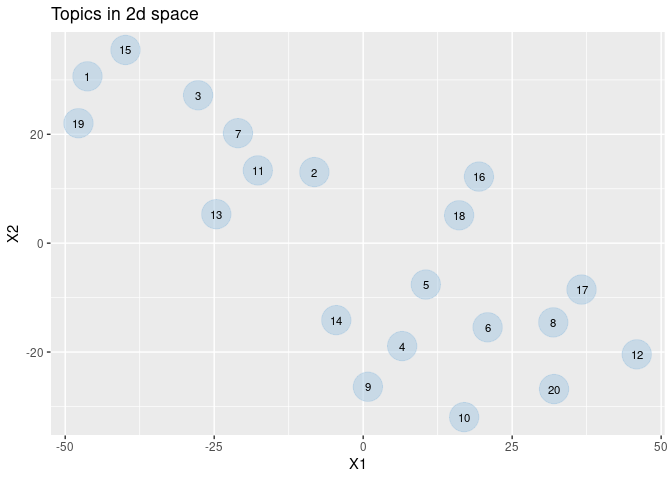
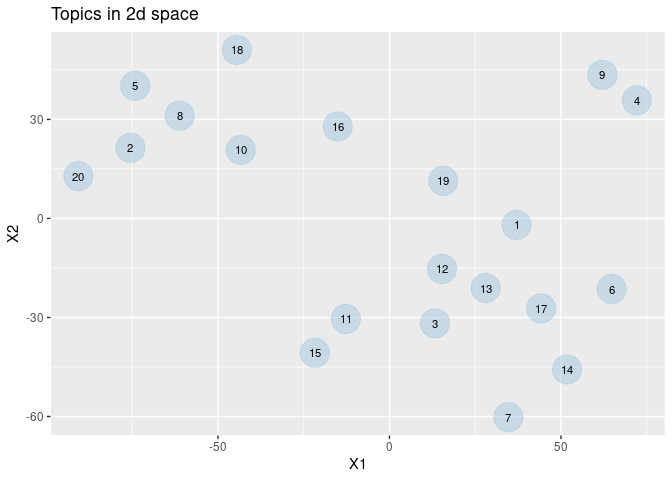
re

diff --git a/README.md b/README.md
@@ -59,6 +59,9 @@ head(s0)
 
 ### Retrieve and parse abstract data
 
+For quicker abstract retrieval, be sure to get an [API
+key](https://support.nlm.nih.gov/knowledgebase/article/KA-03521/en-us).
+
 ``` r
 sen_df <- PubmedMTK::pmtk_get_records2(pmids = s0$pmid, 
                                        cores = 6, 
@@ -70,7 +73,7 @@ sen_df <- PubmedMTK::pmtk_get_records2(pmids = s0$pmid,
 ``` r
 sen_df <- data.table::rbindlist(sen_df)
 
-n <- 9
+n <- 12
 list(pmid = sen_df$pmid[n],
      year = sen_df$year[n],
      articletitle = strwrap(sen_df$articletitle[n], width = 60),
@@ -79,29 +82,31 @@ list(pmid = sen_df$pmid[n],
 ```
 
     ## $pmid
-    ## [1] "33974499"
+    ## [1] "33933061"
     ## 
     ## $year
     ## [1] "2021"
     ## 
     ## $articletitle
-    ## [1] "The Risk of QTc Prolongation with Antiemetics in the"
-    ## [2] "Palliative Care Setting: A Narrative Review."        
+    ## [1] "Opioid use in medical cannabis authorization adult patients"
+    ## [2] "from 2013 to 2018: Alberta, Canada."                        
     ## 
     ## $meshHeadings
-    ## [1] "NA"
+    ## [1] "Adult|Alberta|Analgesics,"                                  
+    ## [2] "Opioid|Cannabis|Female|Humans|Male|Medical Marijuana|Middle"
+    ## [3] "Aged|Opioid-Related Disorders|United States"                
     ## 
     ## $text
-    ##  [1] "Nausea and vomiting are common within the palliative care"  
-    ##  [2] "population. Antiemetic agents may help control symptoms,"   
-    ##  [3] "but may also place patients at risk for QTc prolongation."  
-    ##  [4] "This article reviews pharmacotherapy agents including"      
-    ##  [5] "anticholinergics, antihistamines, antidopaminergics, 5-HT3" 
-    ##  [6] "receptor antagonists, dronabinol, and medical marijuana and"
-    ##  [7] "their associated risk of QTc prolongation. A clinical"      
-    ##  [8] "treatment pathway is provided to help guide clinicians in"  
-    ##  [9] "choosing the most appropriate antiemetic based upon patient"
-    ## [10] "specific factors for QTc prolongation."
+    ##  [1] "The opioid overdose epidemic in Canada and the United"      
+    ##  [2] "States has become a public health crisis - with exponential"
+    ##  [3] "increases in opioid-related morbidity and mortality."       
+    ##  [4] "Recently, there has been an increasing body of evidence"    
+    ##  [5] "focusing on the opioid-sparing effects of medical cannabis" 
+    ##  [6] "use (reduction of opioid use and reliance), and medical"    
+    ##  [7] "cannabis as a potential alternative treatment for chronic"  
+    ##  [8] "pain. The objective of this study is to assess the effect"  
+    ##  [9] "of medical cannabis authorization on opioid use (oral"      
+    ## [10] "morphine equivalent; OME) between 2013 and 2018 in Alberta,"
 
 ### KWIC search
 
@@ -116,16 +121,21 @@ egs <- PubmedMTK::pmtk_locate_search(text = toks,
                                      search = c('medical marijuana laws'),
                                      stem = F,
                                      window = 10)
-knitr::kable(egs[1:5, ])
+
+egs$t1 <- paste0('... ', egs$lhs, ' `', egs$instance, '` ', egs$rhs, ' ...')
+knitr::kable(egs[1:8, c(1,5)])
 ```
 
-| doc_id   | lhs                                                                               | instance               | rhs                                                         |
-|:---------|:----------------------------------------------------------------------------------|:-----------------------|:------------------------------------------------------------|
-| 34128629 | , and driving . physicians can recommend use of marijuana under                   | medical marijuana laws | but cannot prescribe it , as it is classified as a          |
-| 33750275 | moving to reverse marijuana prohibition , most frequently through legalization of | medical marijuana laws | ( mmls ) , and there is concern that marijuana legalization |
-| 33730400 | recreational marijuana laws ( rml ) , followed by states with                     | medical marijuana laws | ( mml ) and without legal cannabis use , respectively .     |
-| 33624387 | differences-in-differences ( dd ) approach and found that the implementation of   | medical marijuana laws | ( mmls ) and recreational marijuana laws ( rmls ) reduced   |
-| 33143941 | . cannabis legalization was determined by the presence or absence of              | medical marijuana laws | ( mml ) and recreational marijuana laws ( rml ) in          |
+| doc_id   | t1                                                                                                                                                                         |
+|:---------|:---------------------------------------------------------------------------------------------------------------------------------------------------------------------------|
+| 34128629 | … , and driving . physicians can recommend use of marijuana under `medical marijuana laws` but cannot prescribe it , as it is classified as a …                            |
+| 33750275 | … moving to reverse marijuana prohibition , most frequently through legalization of `medical marijuana laws` ( mmls ) , and there is concern that marijuana legalization … |
+| 33730400 | … recreational marijuana laws ( rml ) , followed by states with `medical marijuana laws` ( mml ) and without legal cannabis use , respectively . …                         |
+| 33624387 | … differences-in-differences ( dd ) approach and found that the implementation of `medical marijuana laws` ( mmls ) and recreational marijuana laws ( rmls ) reduced …     |
+| 33143941 | … . cannabis legalization was determined by the presence or absence of `medical marijuana laws` ( mml ) and recreational marijuana laws ( rml ) in …                       |
+| 33069561 | … , a limited but growing body of literature has found state `medical marijuana laws` ( mmls ) to be associated with lower levels of opioid …                              |
+| 32799573 | … management , much research has since focused on the potential for `medical marijuana laws` ( mmls ) to curb the opioid epidemic . nonetheless , …                        |
+| 32736294 | … cannabis use disorder are more prevalent in u.s . states with `medical marijuana laws` ( mmls ) , as well as among individuals with elevated …                           |
 
 ### Extract MeSH classifications
 
@@ -168,8 +178,8 @@ lda <- text2vec::LDA$new(n_topics = 20)
 fit <- lda$fit_transform(dtm, progressbar = F)
 ```
 
-    ## INFO  [14:42:13.558] early stopping at 80 iteration 
-    ## INFO  [14:42:13.847] early stopping at 20 iteration
+    ## INFO  [09:53:08.957] early stopping at 100 iteration 
+    ## INFO  [09:53:09.312] early stopping at 30 iteration
 
 ``` r
 tm_summary <- PubmedMTK::pmtk_summarize_lda(
@@ -178,18 +188,18 @@ tm_summary <- PubmedMTK::pmtk_summarize_lda(
 
 #### Feature composition of first ten topics
 
-| topic_id | topic_features                                                                                                                                                                                            |
-|---------:|:----------------------------------------------------------------------------------------------------------------------------------------------------------------------------------------------------------|
-|        1 | adult \| middle_aged \| young_adult \| aged \| male \| cross-sectional_studies \| adolescent \| age_factors \| pain_management \| health_surveys                                                          |
-|        2 | marijuana_use \| health_knowledge,\_attitudes,\_practice \| male \| surveys_and_questionnaires \| health_policy \| commerce \| middle_aged \| female \| united_states \| substance_use                    |
-|        3 | male \| adult \| female \| marijuana \| cannabis \| marijuana_smoking \| stress_disorders,\_post-traumatic \| motivation \| severity_of_illness_index \| cannabis_use                                     |
-|        4 | cannabis \| marijuana_use \| prevalence \| united_states \| thc \| cbd \| illicit_drugs \| medical_marijuana_laws \| medical_cannabis \| logistic_models                                                  |
-|        5 | cannabis \| canada \| drug_and_narcotic_control \| phytotherapy \| united_states \| physicians \| health_policy \| jurisprudence \| attitude_of_health_personnel \| health_care_and_public_health         |
-|        6 | nausea \| marijuana_smoking \| multiple_sclerosis \| cannabis \| drug_and_narcotic_control \| vomiting \| public_policy \| marijuana_abuse \| muscle_spasticity \| neuralgia                              |
-|        7 | female \| male \| substance-related_disorders \| marijuana_abuse \| cannabis \| cross-sectional_studies \| marijuana_smoking \| risk_factors \| colorado \| anxiety                                       |
-|        8 | cannabinoids \| medical_cannabis \| drug_and_narcotic_control \| united_states \| biomedical_research \| mental_disorders \| palliative_care \| health_services_accessibility \| united_kingdom \| israel |
-|        9 | cannabis \| neoplasms \| palliative_care \| cancer_pain \| cancer \| clinical_trials_as_topic \| randomized_controlled_trials_as_topic \| medical_cannabis \| societies,\_medical \| internet             |
-|       10 | pain \| chronic_pain \| cannabis \| analgesics,\_opioid \| analgesics \| pain_management \| practice_patterns,\_physicians’ \| hiv_infections \| new_zealand \| symptom_management                        |
+| topic_id | topic_features                                                                                                                                                                                                                                  |
+|---------:|:------------------------------------------------------------------------------------------------------------------------------------------------------------------------------------------------------------------------------------------------|
+|        1 | medical_cannabis \| canada \| cannabis \| marijuana_smoking \| public_health \| united_states \| practice_patterns,\_physicians’ \| evidence-based_medicine \| mental_health \| substance_use                                                   |
+|        2 | female \| adult \| male \| cross-sectional_studies \| young_adult \| middle_aged \| surveys_and_questionnaires \| adolescent \| health_surveys \| comorbidity                                                                                   |
+|        3 | cannabis \| legislation,\_drug \| endocannabinoids \| hiv_infections \| public_policy \| practice_guidelines_as_topic \| politics \| male \| san_francisco \| treatment_outcome                                                                 |
+|        4 | united_states \| drug_and_narcotic_control \| state_government \| government_regulation \| federal_government \| health_policy \| risk_assessment \| united_states_food_and_drug_administration \| physician-patient_relations \| policy_making |
+|        5 | male \| female \| child \| adolescent \| adult \| anticonvulsants \| child,\_preschool \| infant \| drug_resistant_epilepsy \| safety                                                                                                           |
+|        6 | cannabidiol \| dronabinol \| epilepsy \| cbd \| animals \| nabiximols \| seizures \| drug_combinations \| cannabinoid_receptor_agonists \| endocannabinoid_system                                                                               |
+|        7 | chronic_pain \| analgesics,\_opioid \| opioid-related_disorders \| middle_aged \| adult \| male \| substance-related_disorders \| drug_prescriptions \| israel \| prescription_drugs                                                            |
+|        8 | adult \| female \| male \| marijuana \| substance-related_disorders \| hallucinogens \| cognition \| marijuana_use \| longitudinal_studies \| time_factors                                                                                      |
+|        9 | united_states \| drug_and_narcotic_control \| marijuana_smoking \| phytotherapy \| california \| commerce \| politics \| physicians \| terminal_care \| biomedical_research                                                                     |
+|       10 | marijuana_use \| female \| prevalence \| adolescent \| united_states \| age_factors \| illicit_drugs \| medical_marijuana_laws \| alcohol_drinking \| sex_factors                                                                               |
 
 ### Two-dimensional analyses
 
@@ -283,9 +293,10 @@ The project maintainer welcomes contributions in the form of feature
 requests, bug reports, comments, unit tests, vignettes, or other code.
 If you’d like to contribute, either:
 
--   fork the repository and submit a pull request
+-   fork the repository and submit a [pull
+    request](https://github.com/jaytimm/PubmedMTK/pulls);
 
--   file an issue;
+-   file an [issue](https://github.com/jaytimm/PubmedMTK/issues);
 
 -   or contact the maintainer via e-mail.
 
